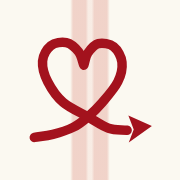
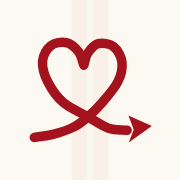
Rayas del fondo mucho más suaves
Las rayas rosas del lino pasan de alfa .78/.55 a .18/.07 (de ≈12 % a ≈3 % de
contraste de luminosidad): se siguen viendo, pero muy poquito. Solo cambia la
intensidad; el ancho, la posición y el resto del diseño quedan exactamente igual.

La imagen que se ve al compartir el enlace (og.jpg) y el icono de la pantalla de
inicio se regeneran con las mismas rayas suaves, y el README indica qué número
ajustar si se quisieran más o menos marcadas.

Claude-Session: https://claude.ai/code/session_012SwaV5w8ejSnD59z4DQnn6

diff --git a/public/css/base.css b/public/css/base.css
@@ -28,8 +28,8 @@
   --papel: #fbf9f1;            /* crema del lino: la textura (multiply) lo deja en ≈ #f4f2e9 */
   --papel-2: #f4e1d9;          /* crema rosado: puertas de la portada, tarjetas, fondo del mapa */
   --papel-3: #fbf8f1;          /* crema casi blanco (textos claros sobre rojo, halos de los rótulos del mapa) */
-  --rosa: rgba(238, 200, 190, .78);       /* rayas del lino */
-  --rosa-hueco: rgba(246, 226, 218, .55); /* línea clara entre las dos rayas de cada pareja */
+  --rosa: rgba(238, 200, 190, .18);       /* rayas del lino: muy suaves, apenas se notan (el último número es la intensidad) */
+  --rosa-hueco: rgba(246, 226, 218, .07); /* línea clara entre las dos rayas de cada pareja */
   --rojo: #a3121d;             /* tinta roja: nombres, títulos, botones y subrayados */
   --rojo-hover: #7f0d16;
   --tinta: #4b3c37;            /* marrón grisáceo oscuro: iconos y texto fuerte */

diff --git a/README.md b/README.md
@@ -117,7 +117,7 @@ boda y, después, exportad lo que queráis conservar y vaciad la tabla. Guía co
 | Teléfono (WhatsApp) o correo de contacto | atributos `data-whatsapp` / `data-email` de `<section id="alojamiento">`: aparece el botón de contacto y, si falla un envío, el formulario ofrece mandar la respuesta por ahí |
 | IBAN | `public/index.html`, sección *Lista de bodas* (texto visible y atributo `data-copiar`). Se ve siempre en una sola línea: el tamaño de la letra se adapta al ancho disponible (`.iban__numero` en `site.css`) |
 | Colores y tipografías | variables de `:root` en `public/css/base.css` (`--rojo` es la tinta de los títulos, botones y subrayados; `--rosa` y `--p` las rayas del fondo). Los fondos claros de tarjeta, opciones, botones e IBAN son translúcidos (`--campo`, `--campo-activo`, `--campo-mapa`) para que se vea el lino |
-| Fondo (lino y rayas) | la textura sale de `python3 scripts/fondo/generar.py` (`public/assets/img/lino.webp`); las rayas son un degradado CSS en el `body` de `base.css` (ancho de cada pareja: `--p`, color: `--rosa`) |
+| Fondo (lino y rayas) | la textura sale de `python3 scripts/fondo/generar.py` (`public/assets/img/lino.webp`); las rayas son un degradado CSS en el `body` de `base.css` (ancho de cada pareja: `--p`; color e intensidad: `--rosa` y `--rosa-hueco`, cuanto menor es el último número, más suaves se ven) |
 | Ilustraciones de acuarela | `scripts/acuarela/` (objetos y escenas; se regeneran con `python3 scripts/acuarela/generar.py`); la guía está en [`docs/ilustraciones.md`](docs/ilustraciones.md) |
 | Fotos | `public/assets/img/` (WebP; la de la portada es un recorte 4:5). Si cambian los nombres o la foto, `node scripts/og/generar.cjs` rehace la imagen para compartir y el icono |
 | Ilustraciones | `public/assets/ilustraciones/` (guía en [`docs/ilustraciones.md`](docs/ilustraciones.md)); se regeneran con `python3 scripts/ilustraciones/generar.py` |
